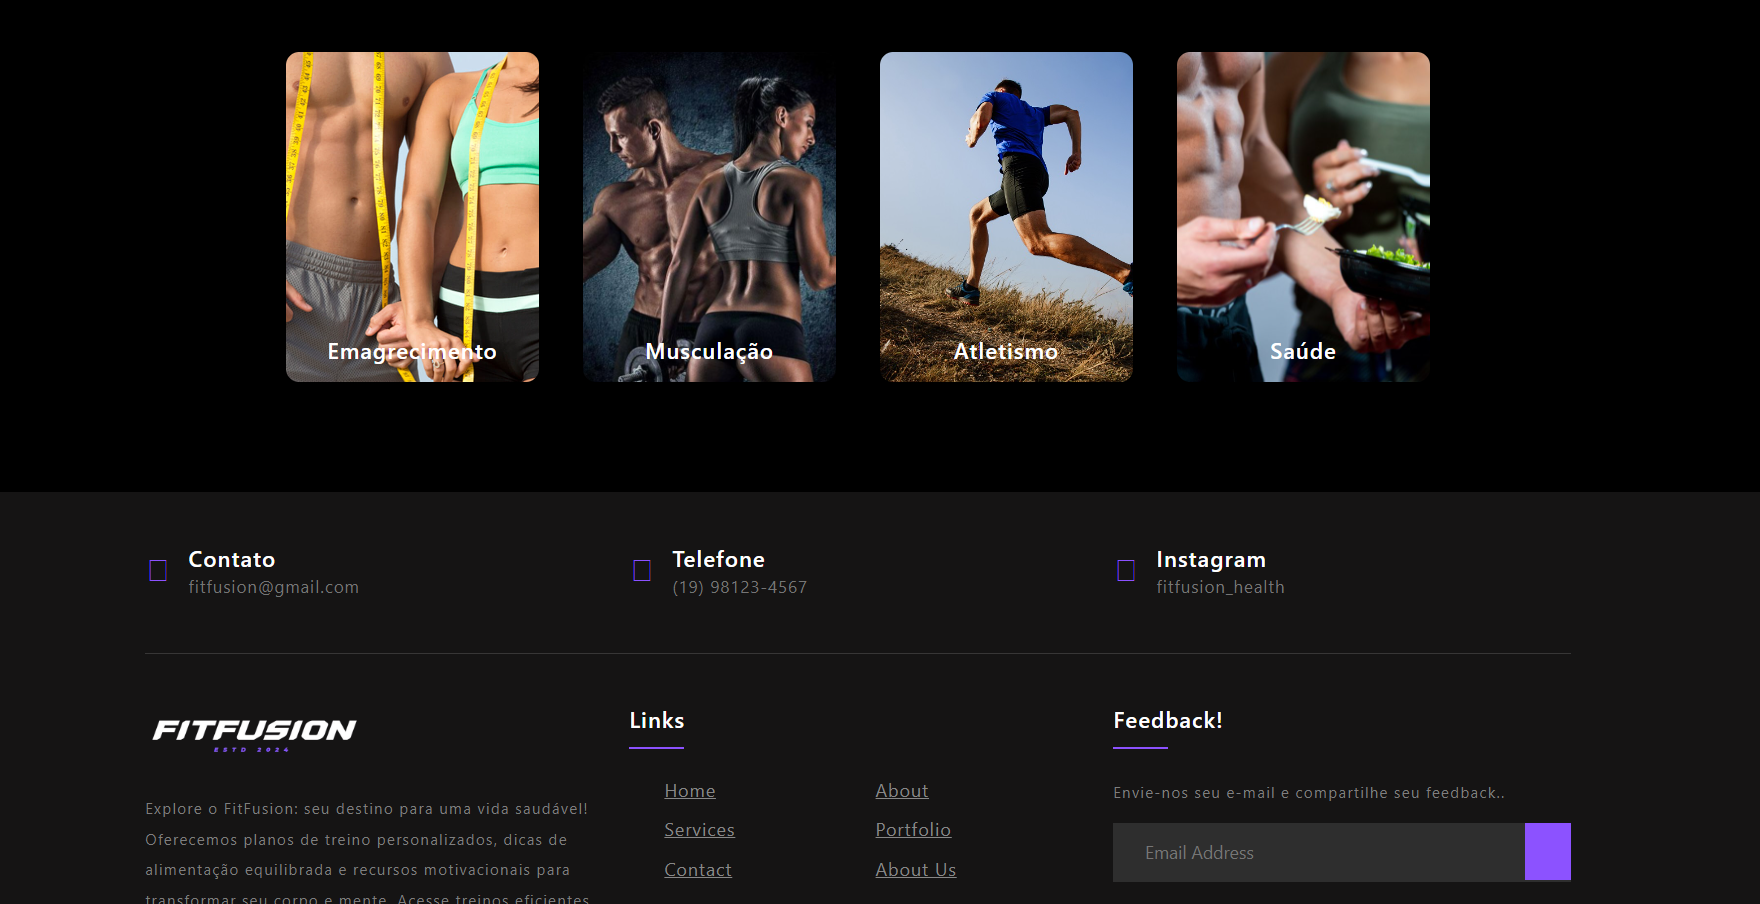
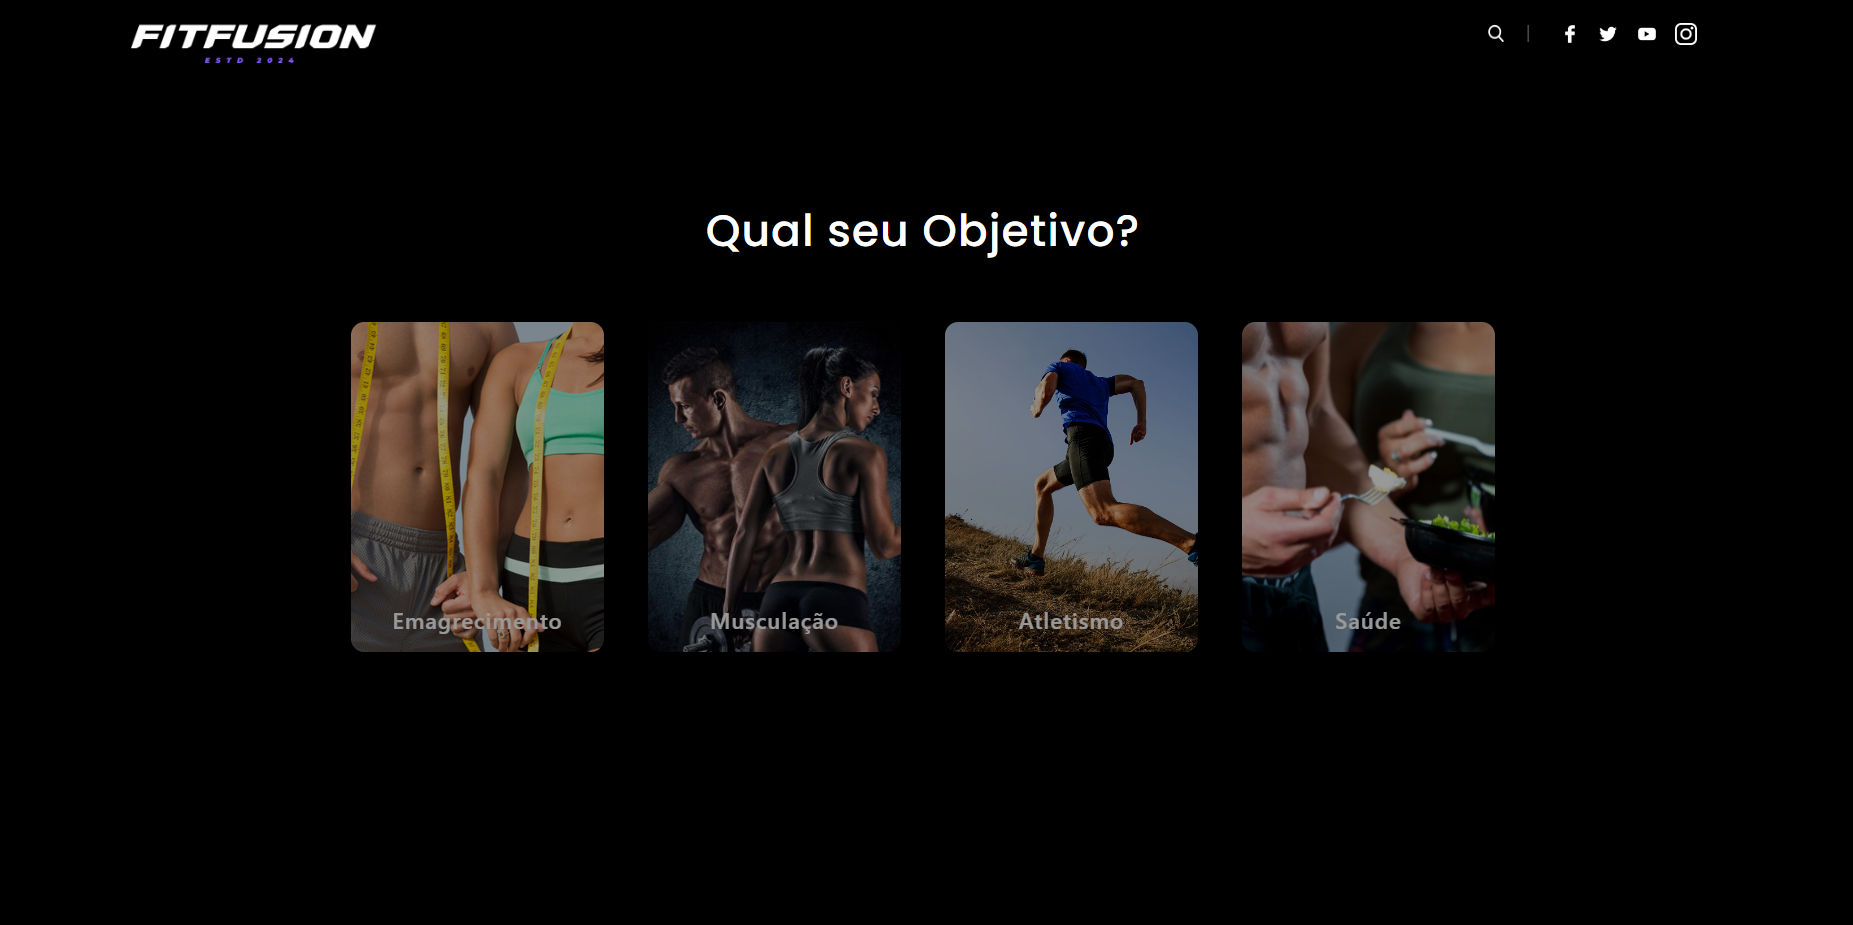
Atts

diff --git a/projeto/home.html b/projeto/home.html
@@ -1,0 +1,113 @@
+<!DOCTYPE html>
+<html lang="en">
+<head>
+    <meta charset="UTF-8">
+    <meta name="viewport" content="width=device-width, initial-scale=1.0">
+    <title>Fit Fusion</title>
+    <link rel="stylesheet" href="assets/style/style.css">
+    <link rel="stylesheet" href="style2.css">
+    <link rel="stylesheet" href="loading.css">
+    <link rel="shortcut icon" href="assets/img/logo-1.png" type="image/x-icon">
+    <script src="https://cdn.jsdelivr.net/npm/bootstrap@5.3.3/dist/js/bootstrap.bundle.min.js" integrity="sha384-YvpcrYf0tY3lHB60NNkmXc5s9fDVZLESaAA55NDzOxhy9GkcIdslK1eN7N6jIeHz" crossorigin="anonymous"></script>
+    <link href="https://cdn.jsdelivr.net/npm/bootstrap@5.3.3/dist/css/bootstrap.min.css" rel="stylesheet" integrity="sha384-QWTKZyjpPEjISv5WaRU9OFeRpok6YctnYmDr5pNlyT2bRjXh0JMhjY6hW+ALEwIH" crossorigin="anonymous">
+
+    <link rel="stylesheet" href="https://cdnjs.cloudflare.com/ajax/libs/font-awesome/6.6.0/css/fontawesome.min.css" integrity="sha512-B46MVOJpI6RBsdcU307elYeStF2JKT87SsHZfRSkjVi4/iZ3912zXi45X5/CBr/GbCyLx6M1GQtTKYRd52Jxgw==" crossorigin="anonymous" referrerpolicy="no-referrer" />
+
+
+    <script type="module" src="https://unpkg.com/ionicons@7.1.0/dist/ionicons/ionicons.esm.js"></script>
+<script nomodule src="https://unpkg.com/ionicons@7.1.0/dist/ionicons/ionicons.js"></script>
+
+</head>
+<body onload="loadScreen()">
+    <div class="loader-main" id="loader">
+        <div class="loader">
+            <svg viewBox="0 0 86 80">
+                <polygon points="43 8 79 72 7 72"></polygon>
+            </svg>
+        </div>
+      </div>
+
+
+    <header>
+        <nav>
+            <div class="logo">
+                <a href="index.html"><img src="assets/img/logo-fit.png" draggable="false"></a>
+            </div>
+            
+            
+            <div class="itens-lateral">
+              
+              <div class="search">
+                <img src="assets/img/procurar.png" draggable="false">
+              </div>
+
+              <p>|</p>
+              <div class="social-midia">
+                <img src="assets/img/facebook .png" draggable="false" class="facebook">
+                <img src="assets/img/twitter.png" draggable="false" class="twitter">
+                <img src="assets/img/youtube.png" draggable="false" class="youtube">
+                <img src="assets/img/instagram.png" draggable="false" class="instagram">
+
+              </div>
+            </div>
+        </nav>
+    </header>
+    
+
+    <main>
+          
+
+        <div class="choices">
+
+            
+            <h1 style="font-family:'poppins', sans-serif;">Qual seu Objetivo?</h1>
+
+            <div class="line">
+            <div  id="emagrecimento"   class="card-options" style="background-image: url(assets/img/emagrecimento.jpg); background-position: center; background-size: cover;">
+                <h1>Emagrecimento</h1>
+            </div>
+
+            <div id="musculação" class="card-options" style="background-image: url(assets/img/musculacao.jpg); background-position: center; background-size: cover;">
+                <h1>Musculação</h1>
+            </div>
+
+            <div id="atletismo" class="card-options" style="background-image: url(assets/img/atletismo.jpeg); background-position: center; background-size: cover;">
+                <h1>Atletismo</h1>
+            </div>
+
+            <div id="saúde" class="card-options" style="background-image: url(assets/img/alimentação.jpg); background-position: center; background-size: cover;">
+                <h1>Saúde</h1>
+            </div>
+        </div>
+
+
+        
+            
+    </div>
+           
+    </main>
+   
+   
+   
+         
+           
+    
+
+    
+</body>
+<script>
+
+    function loadScreen() {
+        document.querySelector("body").style.overflow = "hidden";
+        setTimeout(() => {
+          document.querySelector("#loader").classList.add('fadeOut');  
+          setTimeout(() => {
+            document.querySelector("#loader").style.display = "none";
+          }, 800);
+          document.querySelector("body").style.visibility = "visible";
+          document.querySelector("body").style.overflowY = "visible";
+        });
+    }
+
+  </script>  
+</html>

diff --git a/projeto/style2.css b/projeto/style2.css
@@ -1,5 +1,6 @@
 @import url('https://fonts.googleapis.com/css2?family=Poppins:wght@400;500;600&display=swap');
 @import url('https://fonts.googleapis.com/css2?family=New+Amsterdam&display=swap');
+@import url('https://fonts.googleapis.com/css2?family=Kanit:ital,wght@0,100;0,200;0,300;0,400;0,500;0,600;0,700;0,800;0,900;1,100;1,200;1,300;1,400;1,500;1,600;1,700;1,800;1,900&display=swap');
 *{
     padding: 0;
     margin: 0;
@@ -173,7 +174,7 @@ body {
   margin: 4rem auto 0;
   padding: 5rem 4rem 0 4rem;
   width: 400px;
-  height: 500px;
+  height: 400px;
   min-height: 680px;
   box-shadow: 0 50px 70px -20px rgba(0, 0, 0, 0.85);
   border-radius: 22px;
@@ -189,7 +190,7 @@ body {
   bottom: 0;
   left: 0;
   background-image: radial-gradient(ellipse at left bottom, rgba(13, 13, 17, 0.795) 0%,rgba(30, 28, 34, 0.548) 59%, rgba(32, 36, 53, 0.568) 100%);
-  box-shadow: 0 -20px 150px -20px rgba(0, 0, 0, 0.5);
+  box-shadow: 0 -20px 150px -20px rgba(0, 0, 0, 0.644);
   border-radius: 22px;
 }
 
@@ -197,7 +198,7 @@ body {
   position: relative;
   z-index: 1;
   padding-bottom: 4.5rem;
-  border-bottom: 1px solid rgba(255, 255, 255, 0.25);
+  border-bottom: 1px solid rgb(37, 34, 34);
 }
 
 .login-nav {
@@ -213,9 +214,7 @@ body {
   align-items: center;
 }
 
-.login-nav__item + .login-nav__item {
-  
-}
+
 
 .login-nav__item a {
   position: relative;
@@ -345,5 +344,158 @@ body {
 .login__forgot:hover {
   color: rgb(17, 97, 237);
 }
+
+
+
+
+
+
+
+
+
+/* Pos login */
+
+.apresentation {
+  display: flex;
+  width: 100%;
+  height: 800px;
+  flex-direction: initial;
+  justify-content: center;
+  gap: 100px;
   
   
+  background-position: center;
+  background-size: cover;
+ 
+}
+
+
+.text-head {
+  display: flex ;
+  justify-content: center;
+  flex-direction: column;
+}
+  
+  .text-head h1  {
+    font-size: 155px;
+    font-weight: bold;
+    text-align: center;
+    margin-bottom: 20px;
+    color: white;
+    font-family: "Kanit", sans-serif;
+  }
+  .text-head h2  {
+    margin-top: -50px;
+    font-size: 80px;
+    font-weight: bold;
+    text-align: center;
+    margin-bottom: 20px;
+    color: #5125aa;
+    font-family: "Kanit", sans-serif;
+  }
+
+
+
+  .image-visual {
+    display: flex;
+    width: 500px;
+    height: 700px;
+    flex-direction: column;
+    overflow-x: hidden;
+   
+  }
+
+
+  .card-visual-1 {
+    display: flex;
+    justify-content: center;
+    position:static;
+    width: 110px;
+    height: 80px;
+    border-radius:10px;
+    background-color: #8C52FF;
+    font-size: 10px;
+    text-align: center;
+    align-items: center;
+    color: white;
+    gap: 5px;
+    
+    
+  }
+
+  .card-visual-1 img {
+    width: 0%;
+    filter: invert(100%);
+  }
+  
+  .card-visual-2 {
+    display: flex;
+    justify-content: center;
+    width: 100px;
+    height: 50px;
+    border-radius:10px;
+    background-color: #8C52FF;
+    font-size: 10px;
+    text-align: center;
+    align-items: center;
+    color: white;
+    gap: 5px;
+    
+  }
+
+  .card-visual-1 h1 {
+    font-size: 35px;
+    font-family: 'poppins', sans-serif;
+    
+  }
+
+  .card-visual-1 h2 {
+    font-size: 10px;
+    font-family: 'poppins', sans-serif;
+  }
+
+
+  .choices {
+    display: flex;
+    align-items: center;
+    margin-top: 120px;
+    flex-direction: column;
+    color: white;
+  }
+
+
+  .line {
+    display: flex;
+    gap: 40px;
+}
+  .card-options{
+    display: flex;
+    justify-content: center;
+    align-items: center;
+    width: 230px;
+    height: 300px;
+    border-radius: 12px;
+    transition: 2s;
+    /* margin-inline: 17px; */
+    color: white;
+    /* margin-top: 200px; */
+    margin-top: 50px;
+    filter:opacity(60%);
+    
+    
+    
+}
+
+.card-options h1{
+  font-size: 20px;
+  margin-top: 250px;
+}
+
+.card-options:hover {
+  transform: scale(1.2);
+  filter:opacity(120%);
+  box-shadow: 0 -20px 150px -20px rgba(204, 203, 203, 0.712);
+  
+}
+
+

diff --git a/projeto/login.html b/projeto/login.html
@@ -49,7 +49,7 @@
               <ul class="login-nav">
                 
                 <li class="login-nav__item">
-                  <a href="#"><h1>Sign Up</h1></a>
+                  <a href="#"><h1>Login</h1></a>
                 </li>
               </ul>
               <label for="login-input-user" class="login__label">
@@ -64,7 +64,7 @@
                 <input id="login-sign-up" type="checkbox" class="login__input--checkbox" />
                 Salvar a senha
               </label>
-              <button class="login__submit" disabled>Sign in</button>
+              <button class="login__submit" disabled>LOGIN</button>
             </form>
             <a href="#" class="login__forgot">Esqueceu a Senha?</a>
           </div>

diff --git a/projeto/assets/style/style.css b/projeto/assets/style/style.css
@@ -294,10 +294,10 @@ width: 50px;
 background: #8C52FF;
 }
 .footer-widget ul li {
-display: inline-block;
-float: left;
-width: 50%;
-margin-bottom: 12px;
+  display: inline-block;
+  float: left;
+  width: 50%;
+  margin-bottom: 12px;
 }
 .footer-widget ul li a:hover{
 color: #8C52FF;
